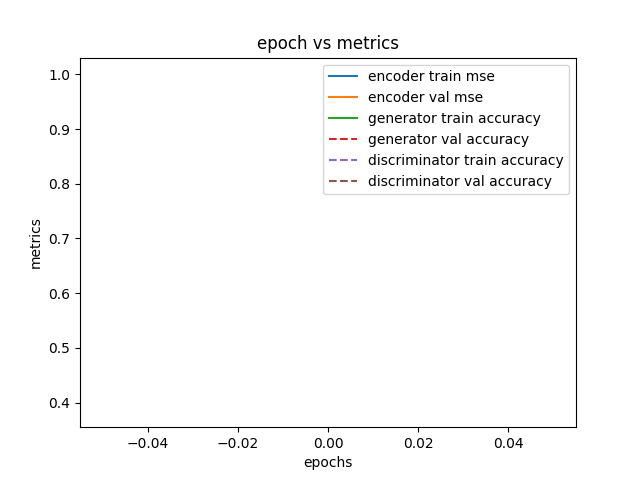
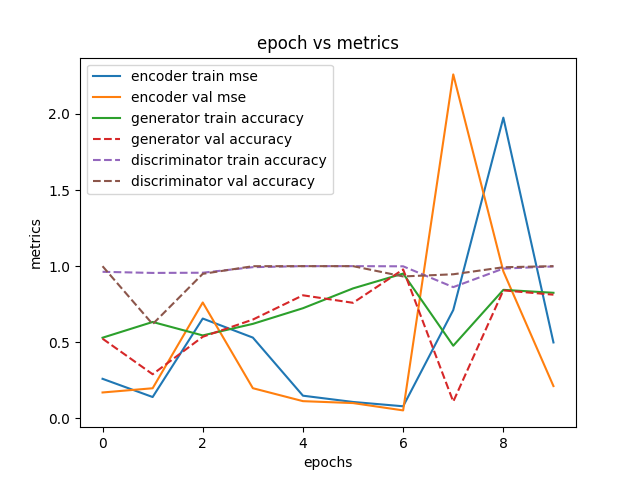
fixed generator loss

diff --git a/project-2/src/model/VAEGAN/VAEGAN.py b/project-2/src/model/VAEGAN/VAEGAN.py
@@ -27,7 +27,7 @@ class VAEGAN(keras.Model):
         return -0.5 * tf.reduce_mean(z_log_var - tf.square(z_mean) - tf.exp(z_log_var) + 1)
  
     def generator_loss(self, y_true, y_pred):
-        return keras.losses.SparseCategoricalCrossentropy()(y_true, y_pred)
+        return - keras.losses.SparseCategoricalCrossentropy()(y_true, y_pred)
    
     def discriminator_loss(self, y_true, y_pred):
         return keras.losses.SparseCategoricalCrossentropy()(y_true, y_pred) 
@@ -73,13 +73,5 @@ class VAEGAN(keras.Model):
 
         return enc_loss, gen_loss, disc_loss, x_fake, y_fake
 
- 
-    def interpolate(self, x1, x2):
-        z1 = self.encoder(x1)
-        z2 = self.encoder(x2)
-        z = [z1+(z2-z2)*t for t in np.linspace(0,1,10)]
-        out = self.generator(z)
-        return out
-
 if __name__ == "__main__":
-    self = VAEGAN(20, 580, 2048,3)
+    obj = VAEGAN(20, 580, 2048,3)
